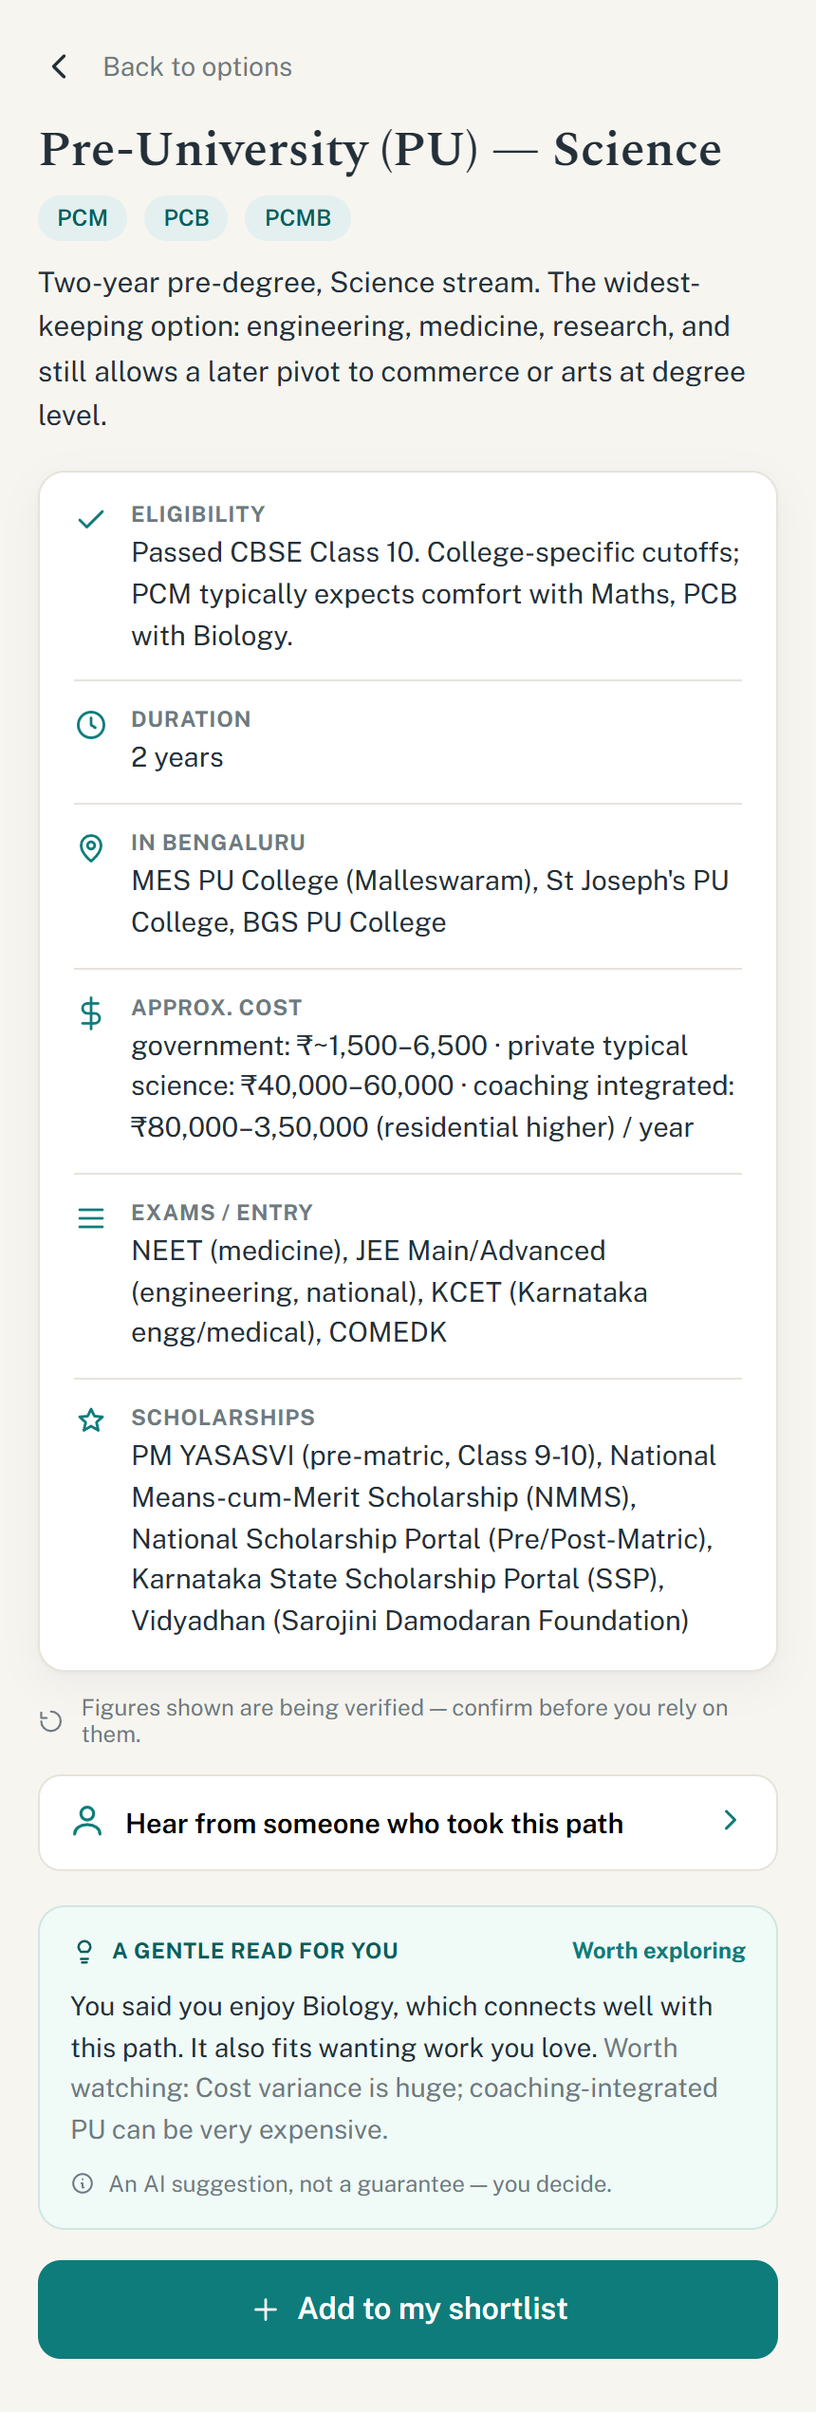
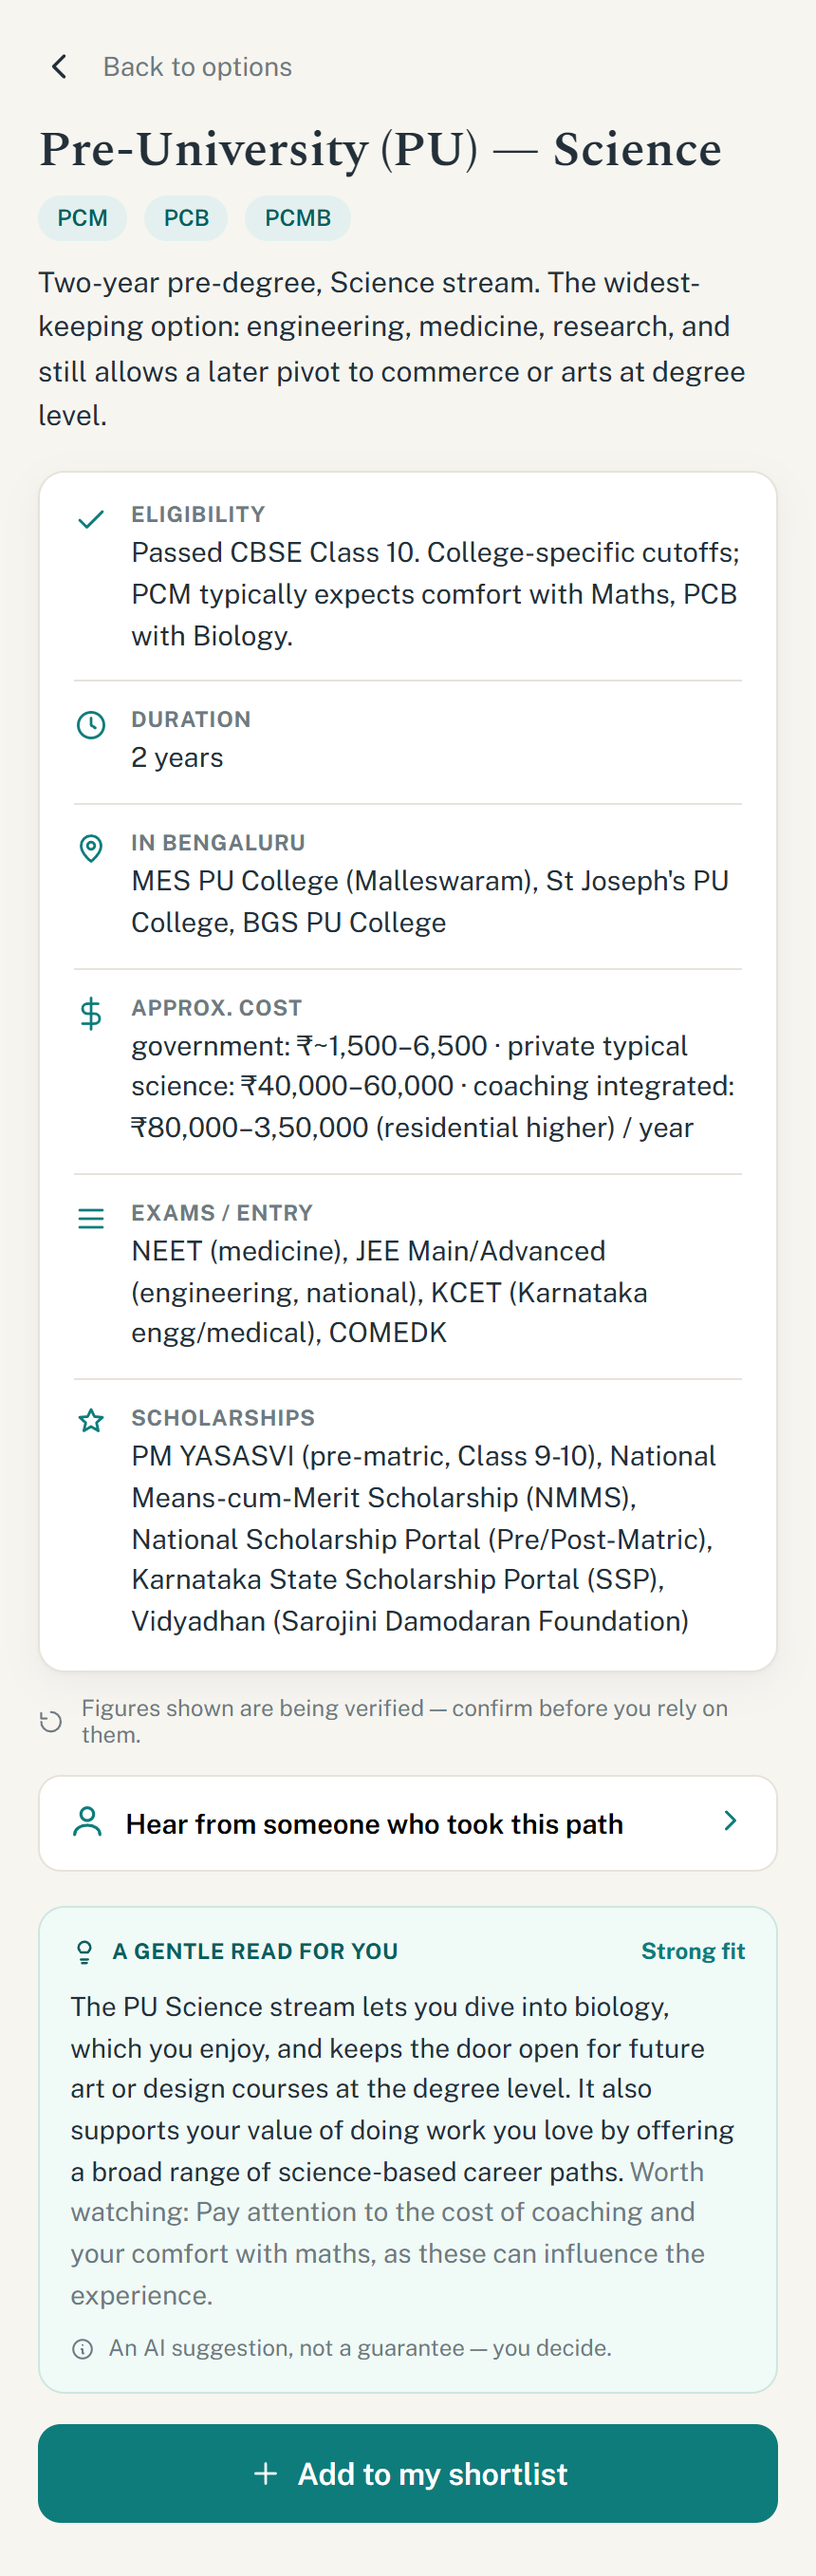
feat(api): provider-agnostic LLM layer (Groq default) + live reflections verified
- llm.ts: LLM_PROVIDER = groq|gemini|anthropic|openai|ollama; shared Zod
  validation enforces the no-verdict output schema on every provider
- dotenv loads api/.env; .env.example documents each provider
- default Groq model openai/gpt-oss-20b (account-available); health + response
  report the real provider (not hardcoded "claude")
- verified live end-to-end: intake -> grounded Groq reflection -> validated UI

diff --git a/api/src/llm.ts b/api/src/llm.ts
@@ -1,0 +1,172 @@
+// Provider-agnostic grounded reflection layer.
+// Pick a provider with LLM_PROVIDER (groq | gemini | anthropic | openai | ollama).
+// The output SHAPE and safety rules are enforced here (Zod validation + system
+// prompt) regardless of provider, so "never a verdict / no fabrication" holds
+// everywhere. Groq/OpenAI/Ollama share the OpenAI-compatible path.
+import { z } from "zod";
+
+export const PROVIDER = (process.env.LLM_PROVIDER || "groq").toLowerCase();
+
+const MODELS: Record<string, string> = {
+  groq: process.env.GROQ_MODEL || "openai/gpt-oss-20b",
+  openai: process.env.OPENAI_MODEL || "gpt-4o-mini",
+  ollama: process.env.OLLAMA_MODEL || "llama3.1",
+  gemini: process.env.GEMINI_MODEL || "gemini-2.0-flash",
+  anthropic: process.env.ANTHROPIC_MODEL || "claude-opus-5",
+};
+export const MODEL = MODELS[PROVIDER] || MODELS.groq;
+
+export function providerReady(): boolean {
+  switch (PROVIDER) {
+    case "ollama": return true; // local, no key
+    case "gemini": return !!process.env.GEMINI_API_KEY;
+    case "anthropic": return !!process.env.ANTHROPIC_API_KEY || !!process.env.ANTHROPIC_AUTH_TOKEN;
+    case "openai": return !!process.env.OPENAI_API_KEY;
+    case "groq": default: return !!process.env.GROQ_API_KEY;
+  }
+}
+export const hasKey = providerReady();
+
+// ---- schemas (Zod validates every provider's output) ----
+const ReflectionSchema = z.object({
+  band: z.enum(["Worth exploring", "Strong fit", "A stretch"]),
+  why_this_connects: z.string(),
+  what_to_watch: z.string(),
+  confidence: z.enum(["low", "medium", "high"]),
+});
+const PlanSchema = z.object({
+  opening: z.string(),
+  reconciliation: z.string(),
+  watch: z.string(),
+  confidence: z.enum(["low", "medium", "high"]),
+});
+
+// Gemini responseSchema (OpenAPI subset)
+const reflectGeminiSchema = {
+  type: "object",
+  properties: {
+    band: { type: "string", enum: ["Worth exploring", "Strong fit", "A stretch"] },
+    why_this_connects: { type: "string" },
+    what_to_watch: { type: "string" },
+    confidence: { type: "string", enum: ["low", "medium", "high"] },
+  },
+  required: ["band", "why_this_connects", "what_to_watch", "confidence"],
+};
+const planGeminiSchema = {
+  type: "object",
+  properties: {
+    opening: { type: "string" },
+    reconciliation: { type: "string" },
+    watch: { type: "string" },
+    confidence: { type: "string", enum: ["low", "medium", "high"] },
+  },
+  required: ["opening", "reconciliation", "watch", "confidence"],
+};
+
+const REFLECT_SYSTEM = [
+  "You are Marg, a calm, non-judgmental guide for an Indian Class 10 student (Bengaluru, CBSE) choosing what to do after Class 10.",
+  "You are given ONE option's verified data and the student's self-described interests and values.",
+  "Write a short, warm reflection connecting THIS option to what the student told you.",
+  "HARD RULES: Never issue a verdict or tell them what to choose — you rate the OPTION's fit, never the child.",
+  "Use ONLY the provided option data; never invent colleges, fees, schemes or facts. Growth-framed: interests can change.",
+  "If the option is not an obvious match, frame exploring it positively.",
+  'Return ONLY JSON: {"band": "Worth exploring"|"Strong fit"|"A stretch", "why_this_connects": string (<=2 sentences), "what_to_watch": string (1 sentence), "confidence": "low"|"medium"|"high"}. No markdown, no prose outside the JSON.',
+].join("\n");
+
+const PLAN_SYSTEM = [
+  "You are Marg, a calm, non-judgmental guide for an Indian Class 10 student (Bengaluru, CBSE).",
+  "The student named an ambition. You are given that pathway's verified data and the student's interests and values.",
+  "Write a short, warm framing for pursuing this ambition — never a plan to commit to. An ambition at this age can and should stay open.",
+  "Use ONLY the provided pathway data; invent nothing.",
+  'Return ONLY JSON: {"opening": string (1 sentence, "a possible path"), "reconciliation": string (1-2 sentences; if the student\'s interests diverge from what this path needs, name that trade-off kindly and point to keeping options open, else gently encourage the adjacent paths too), "watch": string (1 honest sentence on effort/cost, remembering there are routes through it), "confidence": "low"|"medium"|"high"}. No markdown, no prose outside the JSON.',
+].join("\n");
+
+// ---- provider adapters ----
+const OPENAI_COMPAT: Record<string, { base: string; key?: string }> = {
+  groq: { base: "https://api.groq.com/openai/v1", key: process.env.GROQ_API_KEY },
+  openai: { base: "https://api.openai.com/v1", key: process.env.OPENAI_API_KEY },
+  ollama: { base: process.env.OLLAMA_BASE || "http://localhost:11434/v1", key: undefined },
+};
+
+async function callOpenAICompat(system: string, user: string): Promise<string> {
+  const cfg = OPENAI_COMPAT[PROVIDER];
+  const r = await fetch(cfg.base + "/chat/completions", {
+    method: "POST",
+    headers: { "Content-Type": "application/json", ...(cfg.key ? { Authorization: "Bearer " + cfg.key } : {}) },
+    body: JSON.stringify({
+      model: MODEL,
+      messages: [{ role: "system", content: system }, { role: "user", content: user }],
+      response_format: { type: "json_object" },
+      temperature: 0.4,
+      max_tokens: 400,
+    }),
+  });
+  if (!r.ok) throw new Error(`LLM ${r.status}: ${(await r.text()).slice(0, 300)}`);
+  const d: any = await r.json();
+  return d.choices?.[0]?.message?.content ?? "";
+}
+
+async function callGemini(system: string, user: string, schema: unknown): Promise<string> {
+  const key = process.env.GEMINI_API_KEY;
+  const url = `https://generativelanguage.googleapis.com/v1beta/models/${MODEL}:generateContent?key=${key}`;
+  const r = await fetch(url, {
+    method: "POST",
+    headers: { "Content-Type": "application/json" },
+    body: JSON.stringify({
+      systemInstruction: { parts: [{ text: system }] },
+      contents: [{ role: "user", parts: [{ text: user }] }],
+      generationConfig: { responseMimeType: "application/json", responseSchema: schema, temperature: 0.4 },
+    }),
+  });
+  if (!r.ok) throw new Error(`Gemini ${r.status}: ${(await r.text()).slice(0, 300)}`);
+  const d: any = await r.json();
+  return d.candidates?.[0]?.content?.parts?.[0]?.text ?? "";
+}
+
+async function callAnthropic(system: string, user: string): Promise<string> {
+  const { default: Anthropic } = await import("@anthropic-ai/sdk");
+  const client = new Anthropic();
+  const resp = await client.messages.create({
+    model: MODEL,
+    max_tokens: 512,
+    system,
+    messages: [{ role: "user", content: user }],
+  });
+  return resp.content.filter((b: any) => b.type === "text").map((b: any) => b.text).join("");
+}
+
+function extractJson(s: string): string {
+  const m = s.match(/\{[\s\S]*\}/);
+  if (!m) throw new Error("no JSON found in model output");
+  return m[0];
+}
+
+async function complete<T>(system: string, userObj: unknown, geminiSchema: unknown, schema: z.ZodType<T>): Promise<T> {
+  const user = JSON.stringify(userObj);
+  let raw: string;
+  if (PROVIDER === "gemini") raw = await callGemini(system, user, geminiSchema);
+  else if (PROVIDER === "anthropic") raw = await callAnthropic(system, user);
+  else raw = await callOpenAICompat(system, user); // groq | openai | ollama
+  return schema.parse(JSON.parse(extractJson(raw)));
+}
+
+// ---- public API (same signatures the routes already use) ----
+export async function reflect(profile: any, option: any) {
+  const payload = {
+    student: { interests: profile?.interests ?? [], values: profile?.values ?? [] },
+    option: { name: option.name, summary: option.summary, leads_to: option.leads_to, keeps_open: option.keeps_open, honest_notes: option.honest_notes },
+  };
+  return complete(REFLECT_SYSTEM, payload, reflectGeminiSchema, ReflectionSchema);
+}
+
+export async function planReflect(profile: any, pathway: any) {
+  const payload = {
+    student: { interests: profile?.interests ?? [], values: profile?.values ?? [] },
+    pathway: {
+      ambition: pathway.ambition, next_horizon_steps: pathway.next_horizon_steps,
+      honest_cost_effort: pathway.honest_cost_effort, real_routes_through_cost: pathway.real_routes_through_cost,
+      adjacent_destinations: pathway.adjacent_destinations, what_if_it_changes: pathway.what_if_it_changes,
+    },
+  };
+  return complete(PLAN_SYSTEM, payload, planGeminiSchema, PlanSchema);
+}

diff --git a/api/src/index.ts b/api/src/index.ts
@@ -1,9 +1,10 @@
+import "dotenv/config";
 import express from "express";
 import cors from "cors";
 import { db } from "./db.js";
 import { auth, id, now, hash, verify, newToken, type AuthedRequest } from "./auth.js";
 import { options, optById, pathById, scholarships } from "./dataset.js";
-import { reflect, planReflect, MODEL, hasKey } from "./claude.js";
+import { reflect, planReflect, MODEL, hasKey, PROVIDER } from "./llm.js";
 
 const app = express();
 app.use(cors());
@@ -29,7 +30,7 @@ function logEvent(userId: string | null, name: string, props: any) {
 }
 
 // ---- health & content ----
-app.get("/api/health", (_req, res) => res.json({ ok: true, model: MODEL, ai_key_detected: hasKey, options: options.length }));
+app.get("/api/health", (_req, res) => res.json({ ok: true, provider: PROVIDER, model: MODEL, ai_key_detected: hasKey, options: options.length }));
 app.get("/api/options", (_req, res) => res.json({ options, scholarships }));
 app.get("/api/option/:id", (req, res) => {
   const o = optById.get(req.params.id);
@@ -91,13 +92,13 @@ app.post("/api/reflect", auth, async (req: AuthedRequest, res) => {
   const { optionId } = req.body || {};
   const option = optById.get(optionId);
   if (!option) return res.status(400).json({ error: "unknown_option" });
-  if (!hasKey) return res.status(503).json({ error: "no_ai_key", message: "Set ANTHROPIC_API_KEY to enable live reflections." });
+  if (!hasKey) return res.status(503).json({ error: "no_ai_key", message: `No key for LLM_PROVIDER='${PROVIDER}'. Set it in api/.env (see api/.env.example) to enable live reflections.` });
   const row = getIntake.get(req.userId!) as { data: string } | undefined;
   const profile = row ? JSON.parse(row.data) : {};
   try {
     const reflection = await reflect(profile, option);
     logEvent(req.userId!, "option_reflected", { option_id: optionId });
-    res.json({ source: "claude", model: MODEL, reflection });
+    res.json({ source: PROVIDER, model: MODEL, reflection });
   } catch (e: any) {
     res.status(e?.status || 500).json({ error: "reflect_failed", message: String(e?.message || e) });
   }
@@ -107,12 +108,12 @@ app.post("/api/plan", auth, async (req: AuthedRequest, res) => {
   const { pathwayId } = req.body || {};
   const pathway = pathById.get(pathwayId);
   if (!pathway) return res.status(400).json({ error: "unknown_pathway" });
-  if (!hasKey) return res.status(503).json({ error: "no_ai_key", message: "Set ANTHROPIC_API_KEY to enable live reflections." });
+  if (!hasKey) return res.status(503).json({ error: "no_ai_key", message: `No key for LLM_PROVIDER='${PROVIDER}'. Set it in api/.env (see api/.env.example) to enable live reflections.` });
   const row = getIntake.get(req.userId!) as { data: string } | undefined;
   const profile = row ? JSON.parse(row.data) : {};
   try {
     const plan = await planReflect(profile, pathway);
-    res.json({ source: "claude", model: MODEL, plan });
+    res.json({ source: PROVIDER, model: MODEL, plan });
   } catch (e: any) {
     res.status(e?.status || 500).json({ error: "plan_failed", message: String(e?.message || e) });
   }
